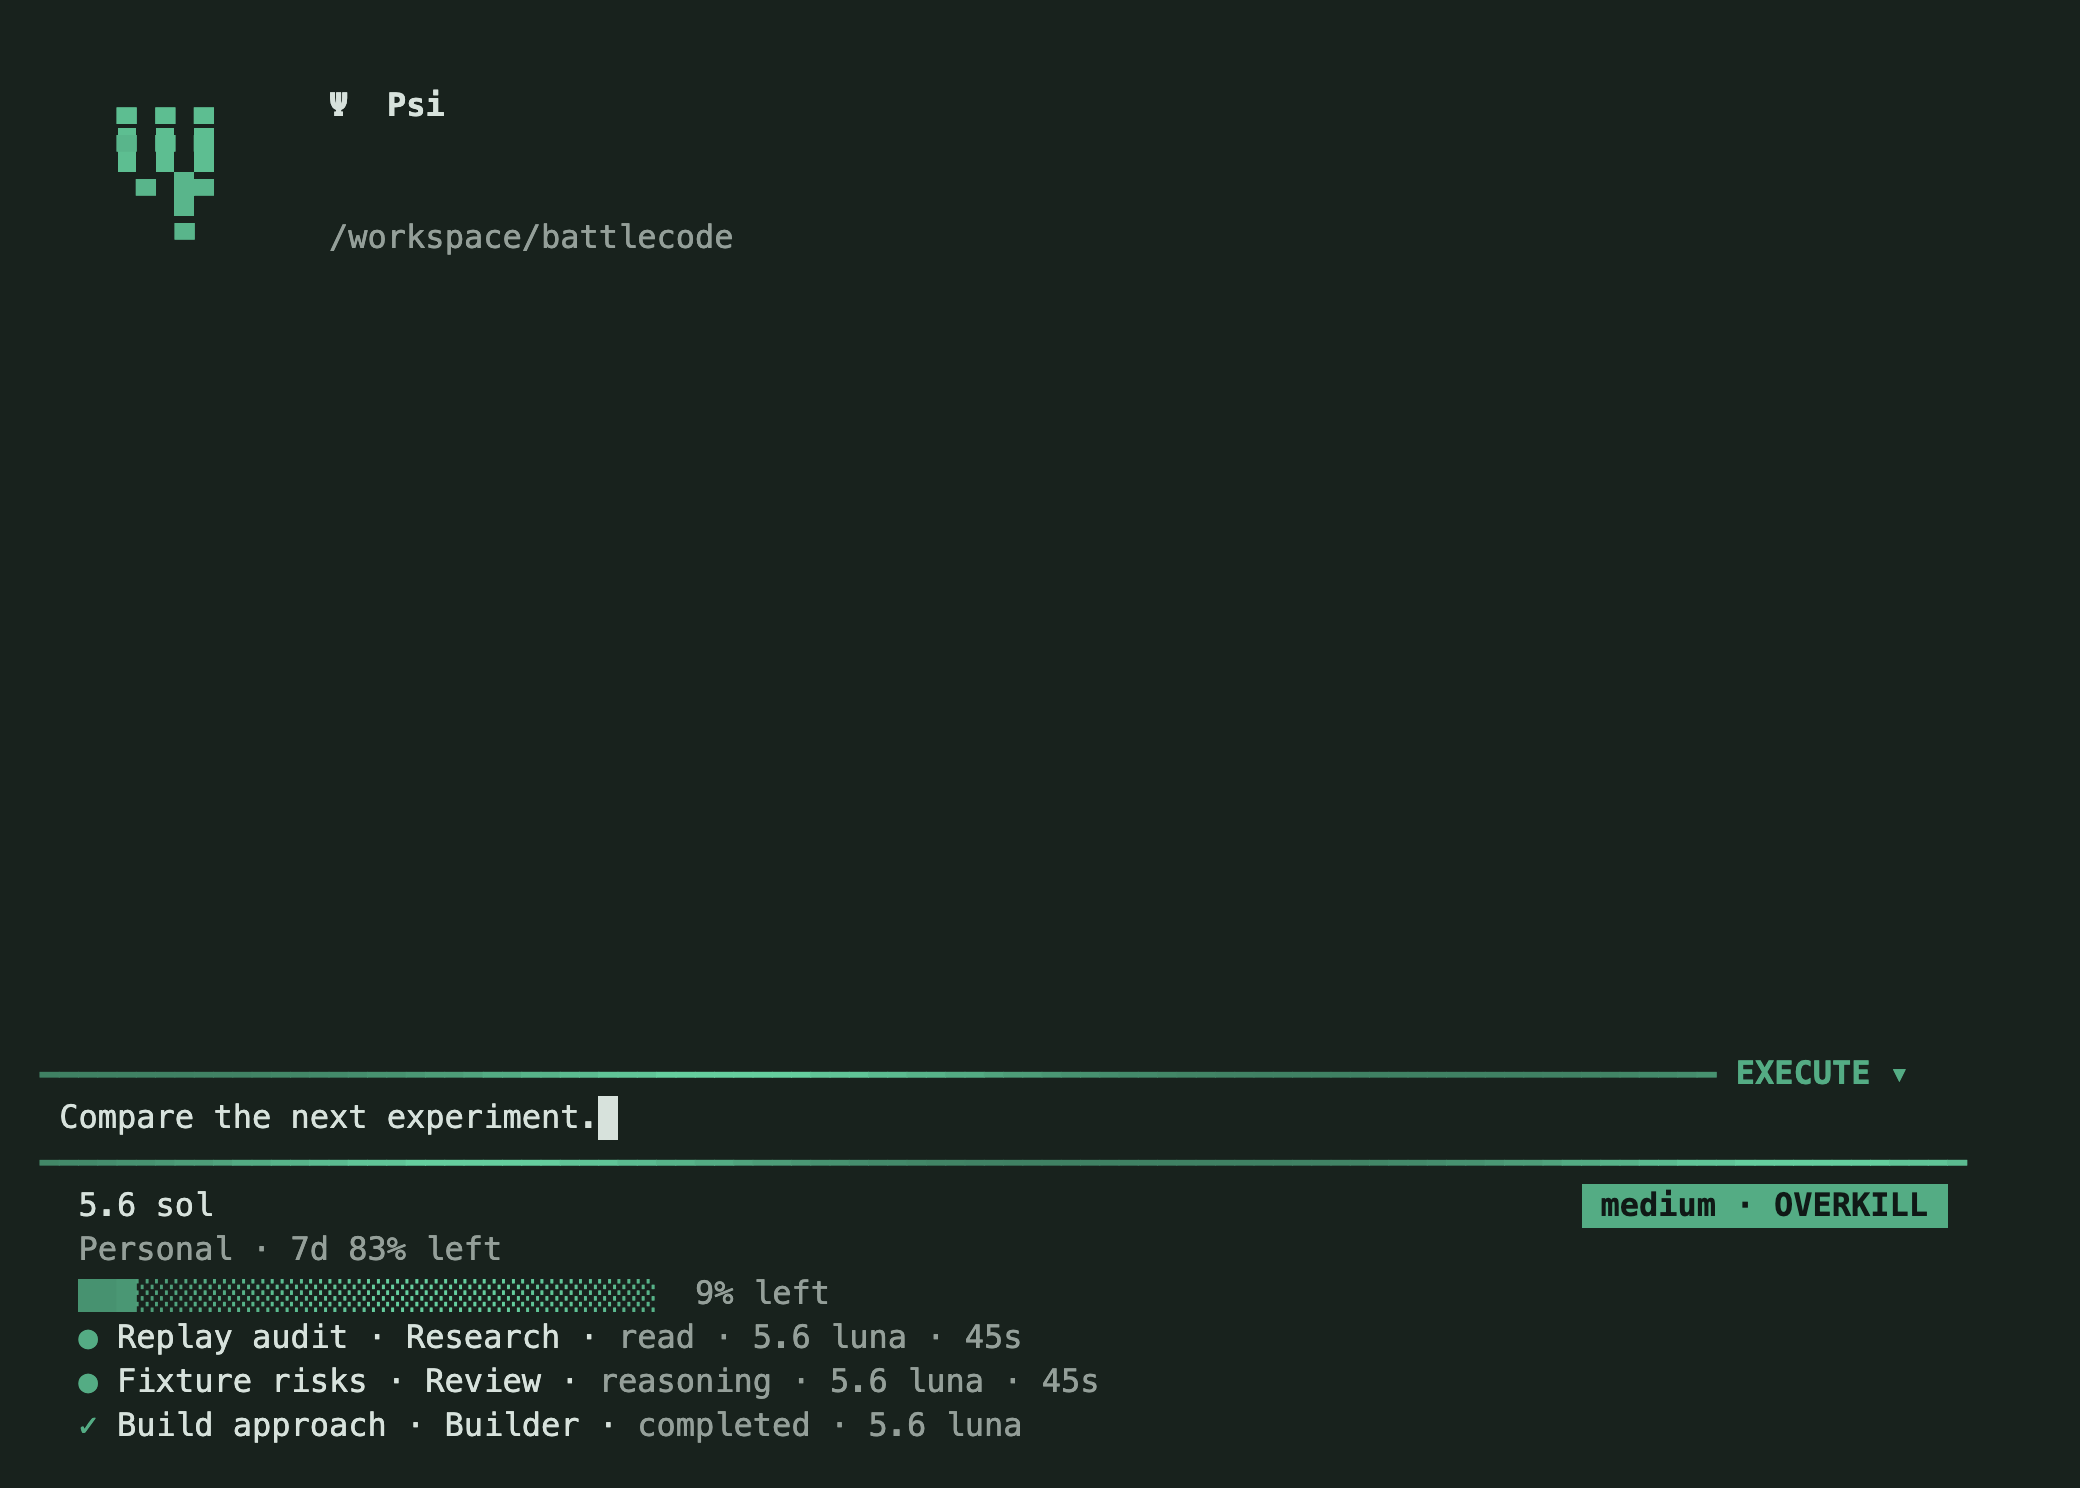
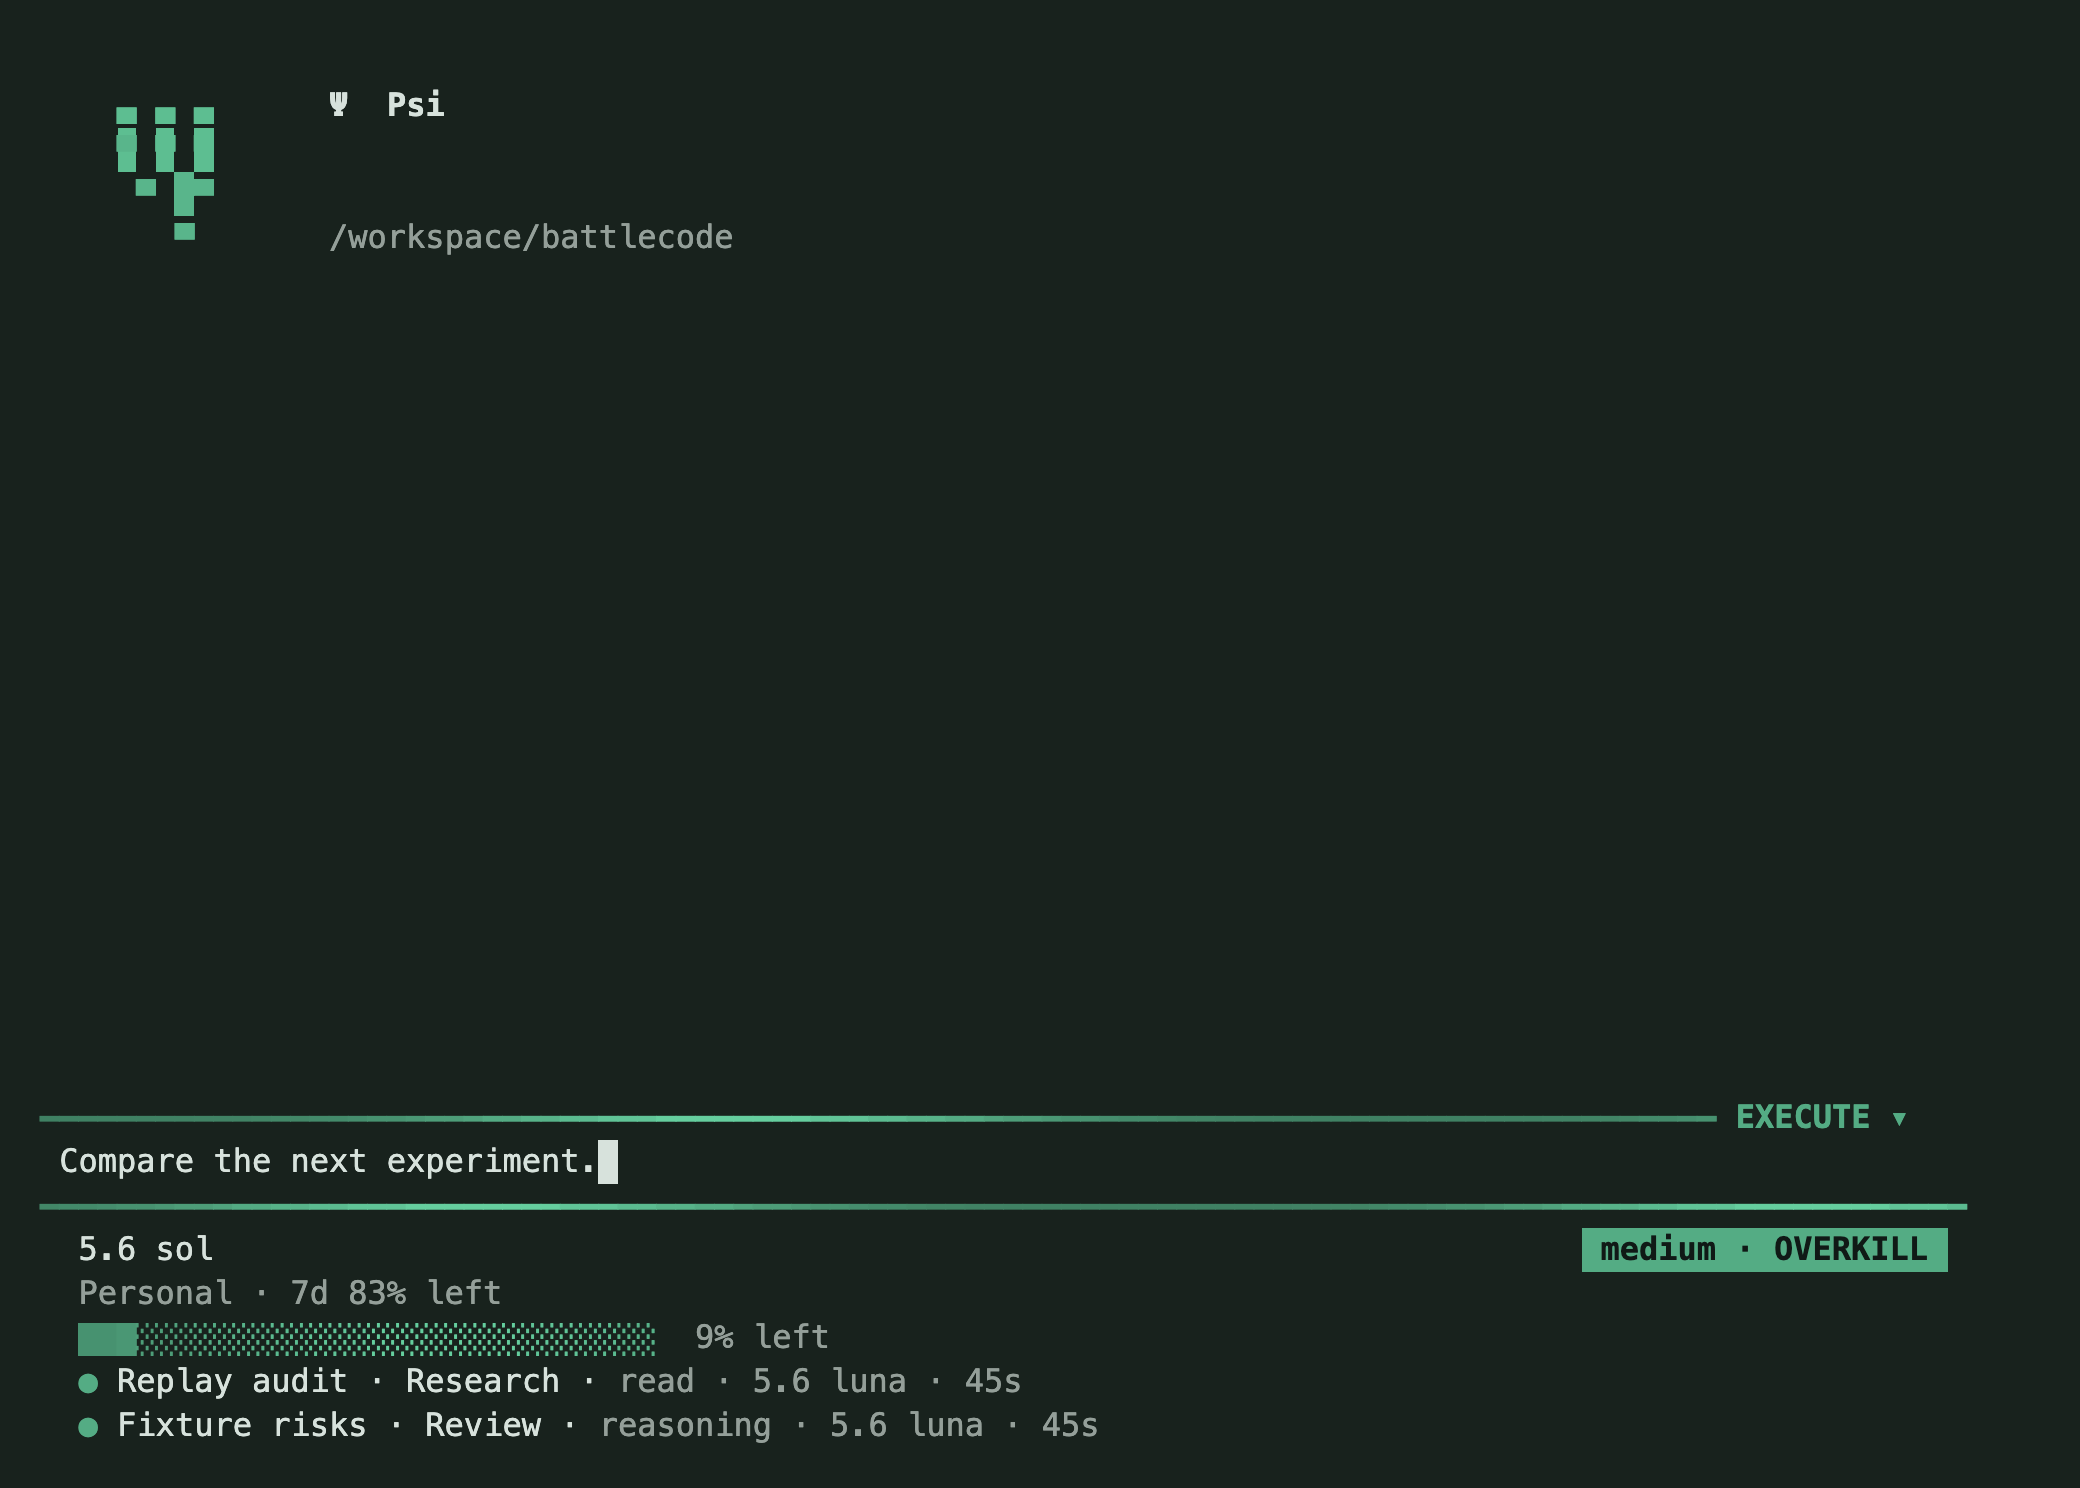
Hide finished subagents and add reload command

Changed region(s): [[0.0312, 0.711, 0.9375, 0.9892]]

diff --git a/docs/GUIDE.md b/docs/GUIDE.md
@@ -63,7 +63,7 @@ Use `/model` to type a search in the main input bar. The list and footer show mo
 
 Open `/effort` for a compact slider: **←/→** adjust effort, **Tab** stages the right-aligned **OVERKILL** toggle, **Enter** applies and **Escape** cancels. OVERKILL adds a flowing glow in your selected accent around the input bar. Disable Motion for a static accent. Use `/subagents` or the worker entry in `/settings` to set concurrency and edit each worker's name, job, model, thinking, plan/execute mode, request limit and budget independently. With OVERKILL enabled, every new task automatically starts available role-specific advisory workers, up to the configured concurrency. Automatic workers inspect in plan mode, which prevents conflicting edits/builds; the main agent owns implementation and can use `agent` to delegate explicitly scoped execution afterward. The configured profile mode still applies to manually delegated workers.
 
-Worker rows below the usage bar show task names, model, active tool/response state, elapsed time and completion/failure. At most three rows are shown; extra active workers are counted and `/subagents` exposes all runs. Completion uses filesystem events rather than inference polling. Reports are delivered at safe model boundaries and must be reviewed before the parent finishes. Interrupted parents can recover reports and deduplicated token receipts from saved journals. Double Escape stops the parent and workers.
+Worker rows below the usage bar show task names, model, active tool/response state and elapsed time. Finished workers disappear automatically; their records and results stay available in `/subagents`. At most three rows are shown; extra active workers are counted and `/subagents` exposes all runs. Completion uses filesystem events rather than inference polling. Reports are delivered at safe model boundaries and must be reviewed before the parent finishes. Interrupted parents can recover reports and deduplicated token receipts from saved journals. Double Escape stops the parent and workers.
 
 Workers inherit the approved directories, use separate durable model sessions, and cannot create nested workers. A plan-mode parent always forces read-only workers. The AI can spawn, send follow-ups, inspect, await and stop them through `agent`; completed workers can resume for follow-up tasks. Returned worker usage is included exactly once in parent session accounting. Per-worker budgets are capped to a share of the parent's remaining configured budget when a worker starts.
 
@@ -134,7 +134,7 @@ Custom endpoint prices default to unknown. Use `/settings` → **API rates** to 
 | `/name [title]` | Rename the current session, or prompt for a title |
 | `/new` | Start a fresh session |
 | `/resume [id]` | Search saved sessions |
-| `/refresh` | Reload settings, accounts, providers and tools |
+| `/reload` · `/refresh` | Reload settings, accounts, providers and tools |
 | `/export [path]` | Export the current session context as Markdown |
 | `/status`, `/help`, `/quit` | Inspect state, see commands or exit |
 
@@ -280,7 +280,7 @@ Transport and terminal rendering: [Pi](https://github.com/earendil-works/pi). Ad
 
 ## Reload
 
-`/refresh` reloads disk settings, provider/model registrations, accounts, tools and the UI configuration. It retains the session journal, allowed directories, queued messages, objectives and draft. Global disk settings take precedence over previous session settings. If inference is active, select **Reload** to stop it and rebuild, or cancel to continue uninterrupted. Reload does not start another model request; unfinished work stays saved. Detached standalone jobs remain managed by their existing job records. Installed source code changes still require a process restart.
+`/reload` (also `/refresh`) reloads disk settings, provider/model registrations, accounts, tools and the UI configuration. It retains the session journal, allowed directories, queued messages, objectives and draft. Global disk settings take precedence over previous session settings. If inference is active, select **Reload** to stop it and rebuild, or cancel to continue uninterrupted. Reload does not start another model request; unfinished work stays saved. Detached standalone jobs remain managed by their existing job records. Installed source code changes still require a process restart.
 
 The compaction model remains in `/settings`. Custom provider setup remains available through `psi provider add`. See [removed commands and recommendations](COMMAND_CHANGES.md).
 

diff --git a/DESIGN.md b/DESIGN.md
@@ -14,7 +14,7 @@ Use the terminal's configured monospace font. Bold distinguishes product and pic
 
 ## Layout
 
-A fullscreen terminal viewport contains the workspace header, a scrolling conversation and inline selection panel. The multiline prompt is pinned to the bottom on startup, during output and through resizes. Task-named subagent status rows sit below the usage bar. Show up to three rows, with overflow counted, active tool/status, short model name and elapsed time. The first row beneath the editor shows the model on the left and the bare effort value aligned to the right, with no provider label. A second row shows the active account name. Subscription accounts display only reported usage windows (5h/7d when supplied), omitting absent/unlimited windows. Metered API accounts display the current session cost, or cost unavailable when pricing is unknown. Place the clickable PLAN/EXECUTE control at the right edge of the top input border. Keep draft and slash completion at their native full width without a left gutter. Mode changes produce no conversation messages. The solid accent bottom meter prefers an actual reported five-hour quota, then a weekly or other valid quota. It fills according to percent left: 100% is unused and 0% is exhausted. Only the weekly quota stays beside the account name, avoiding duplication of the five-hour meter; the bar itself shows only the percent left. When no quota exists, clearly label the fallback as estimated goal work remaining. Conversation scrolling and selection use the terminal renderer; the visible document returns to shell scrollback on exit. Pickers filter immediately and expose keyboard hints. Narrow widths truncate metadata before primary actions. Tool results show short previews, with full results in session artifacts.
+A fullscreen terminal viewport contains the workspace header, a scrolling conversation and inline selection panel. The multiline prompt is pinned to the bottom on startup, during output and through resizes. Task-named subagent status rows sit below the usage bar while active. Hide finished rows immediately without deleting saved records or reports. Show up to three rows, with overflow counted, active tool/status, short model name and elapsed time. The first row beneath the editor shows the model on the left and the bare effort value aligned to the right, with no provider label. A second row shows the active account name. Subscription accounts display only reported usage windows (5h/7d when supplied), omitting absent/unlimited windows. Metered API accounts display the current session cost, or cost unavailable when pricing is unknown. Place the clickable PLAN/EXECUTE control at the right edge of the top input border. Keep draft and slash completion at their native full width without a left gutter. Mode changes produce no conversation messages. The solid accent bottom meter prefers an actual reported five-hour quota, then a weekly or other valid quota. It fills according to percent left: 100% is unused and 0% is exhausted. Only the weekly quota stays beside the account name, avoiding duplication of the five-hour meter; the bar itself shows only the percent left. When no quota exists, clearly label the fallback as estimated goal work remaining. Conversation scrolling and selection use the terminal renderer; the visible document returns to shell scrollback on exit. Pickers filter immediately and expose keyboard hints. Narrow widths truncate metadata before primary actions. Tool results show short previews, with full results in session artifacts.
 
 ## Interaction
 

diff --git a/docs/VERIFICATION.md b/docs/VERIFICATION.md
@@ -2,7 +2,7 @@
 
 Verified locally on 2026-10-31 (Australia/Sydney), using isolated temporary homes for tests.
 
-- `npm run verify`: syntax checks and **112 passing tests**.
+- `npm run verify`: syntax checks and **113 passing tests**.
 - Real HTTP SSE requests to a local OpenAI-compatible fixture executed file writes, a detached shell job, website extraction and objective completion. No paid inference was used.
 - A new process can reconstruct messages, usage, pending goals and tool outcomes from the session journal.
 - Tested serialized multi-account refresh, private credential file mode, transient retries, authentication failure handling, budget/request limits, compaction, torn-journal recovery, writer contention, stale-session rejection and cancellation.
@@ -129,3 +129,8 @@ Actual API invoices and real competition transactions were not exercised in this
 - The release run exposed a Windows fixture teardown race while a mode switch was still saving settings. The main-branch matrix at the same head passed, but the duplicate tag run was cancelled for diagnosis.
 - Shutdown now waits for an in-progress mode change and never starts a quota monitor after closure. A gated regression checks this without timing assumptions.
 - Workflow tests await mode changes directly. Shared fixtures stop apps/workers and close HTTP connections before removing temporary homes, with bounded Windows file-sharing retries.
+
+## Active subagents and reload alias (0.2.12)
+
+- Finished subagents disappear from the footer immediately, making room for other active workers. Saved records, report delivery and follow-up reuse remain intact. Rendering tests cover overflow, completion, failure, cancellation and follow-up activation.
+- `/reload` and `/refresh` share the same runtime rebuild. Tests verify disk settings, preserved context/directories/queue/draft, and cancellation or confirmation during inference and independent worker activity.

diff --git a/README.md b/README.md
@@ -69,11 +69,11 @@ The Ψ header stays visible above compact bottom menus. Model search lives in th
 | `/directory` | Add or remove working directories |
 | `/stats` · `/tools` | Activity and available tools |
 | `/reset` | Reset times and available account resets |
-| `/settings` · `/refresh` | Configure Psi or reload disk settings |
+| `/settings` · `/reload` | Configure Psi or reload disk settings |
 | `/name [title]` | Rename the current session |
 | `/help` | Every command |
 
-With **OVERKILL** on, each task starts advisory subagents up to your configured concurrency. Their task names, activity, model and completion status appear below the usage bar. Reports return to the main agent before it finishes; implementation can then be delegated with explicit ownership. Subagents use their configured models and selected provider accounts and consume normal provider usage.
+With **OVERKILL** on, each task starts advisory subagents up to your configured concurrency. Their task names, activity and model appear below the usage bar while active; finished workers hide automatically, with results retained in `/subagents`. Reports return to the main agent before it finishes; implementation can then be delegated with explicit ownership. Subagents use their configured models and selected provider accounts and consume normal provider usage.
 
 Answers use clean Markdown without repeated assistant headings. Reads and searches group under **Exploring / Explored**; commands use **Running / Ran** with indented output. **Ctrl+T** expands tool details.
 

diff --git a/docs/PARITY.md b/docs/PARITY.md
@@ -1,6 +1,6 @@
 # Pi, Codex and Psi
 
-Compared against the current primary documentation on 2026-10-31 and Psi 0.2.11 source. These are first-class product features; calling an external CLI through Psi's shell is different from providing its own integration.
+Compared against the current primary documentation on 2026-10-31 and Psi 0.2.12 source. These are first-class product features; calling an external CLI through Psi's shell is different from providing its own integration.
 
 | Feature | Available in | Psi today |
 | --- | --- | --- |
